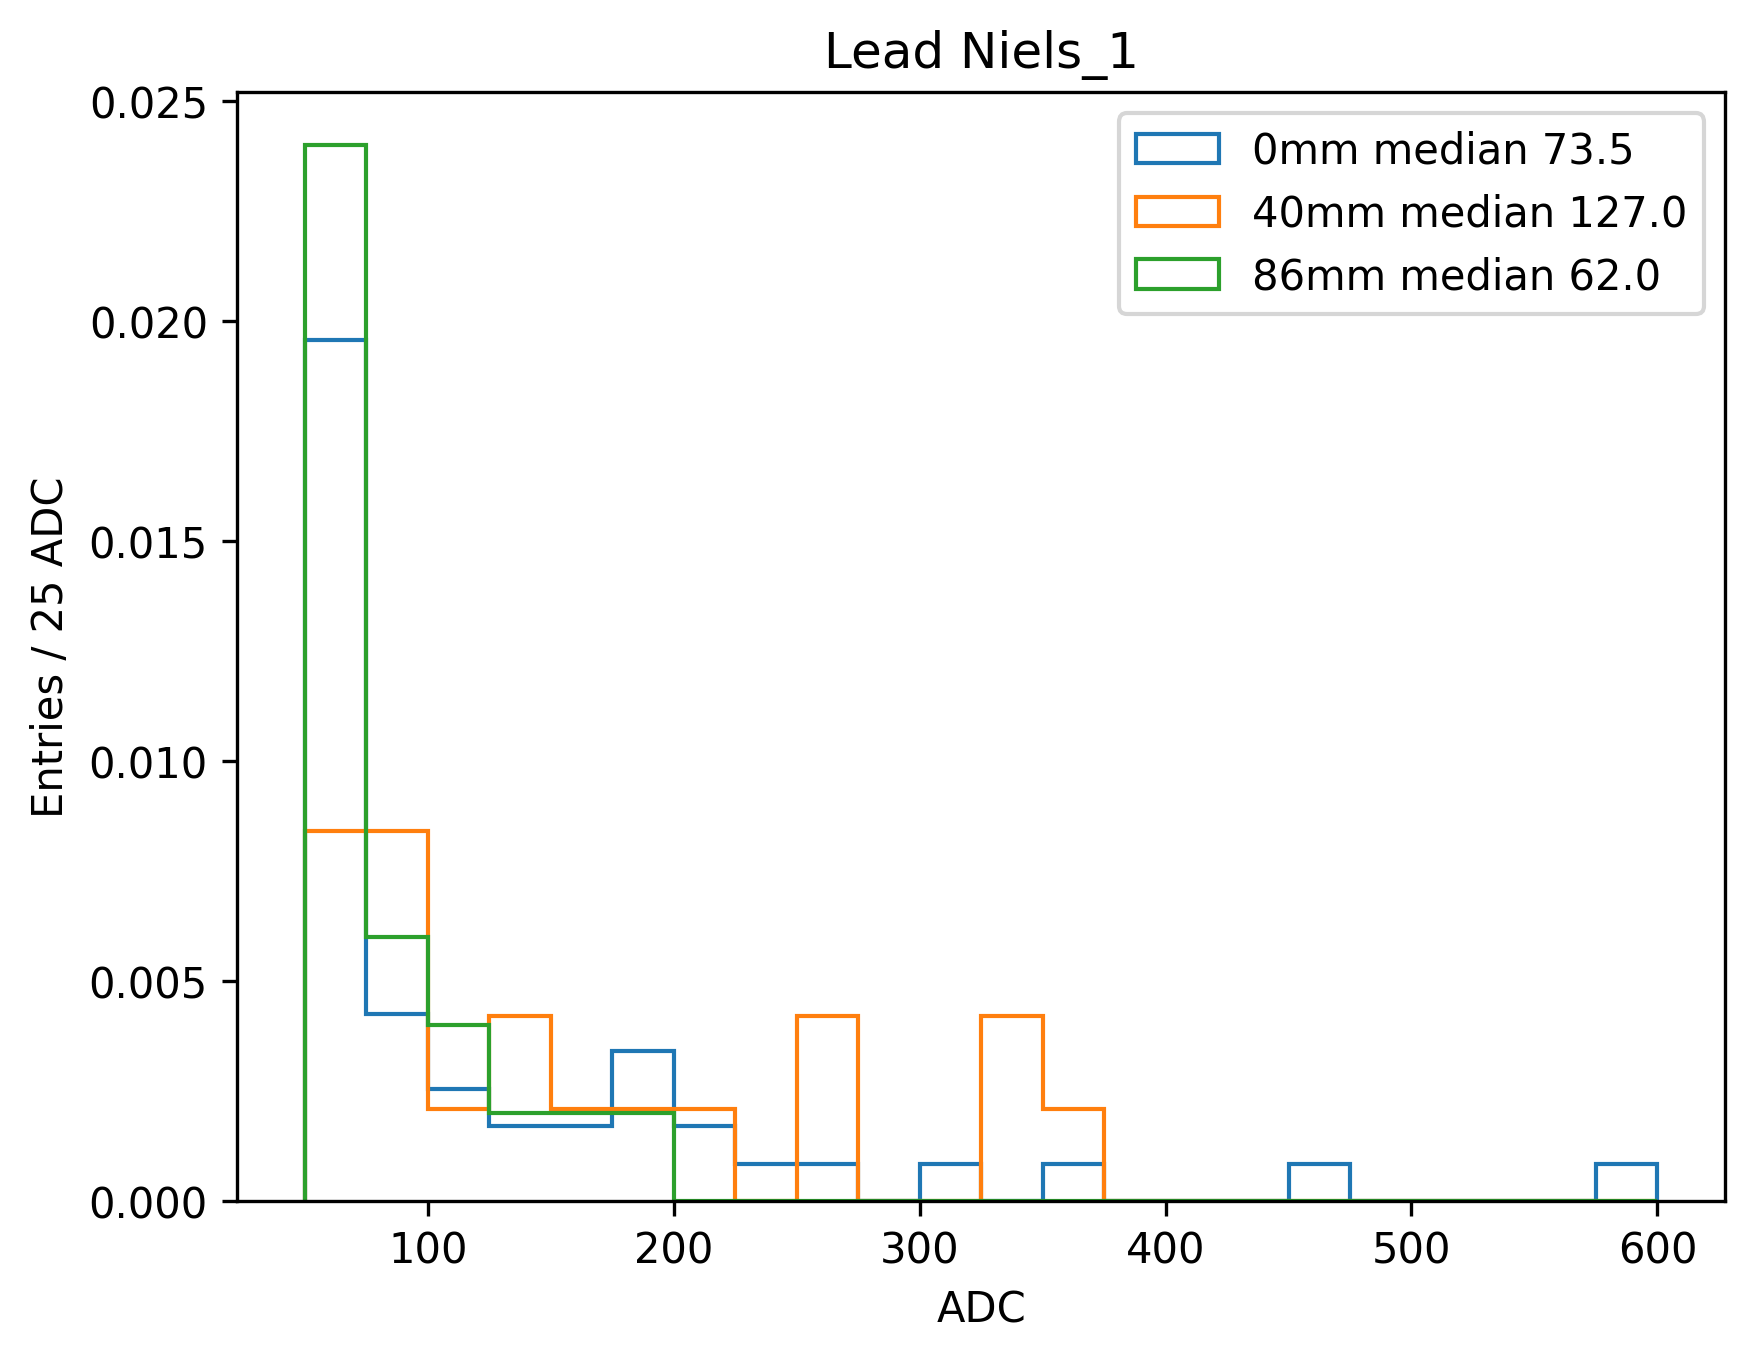
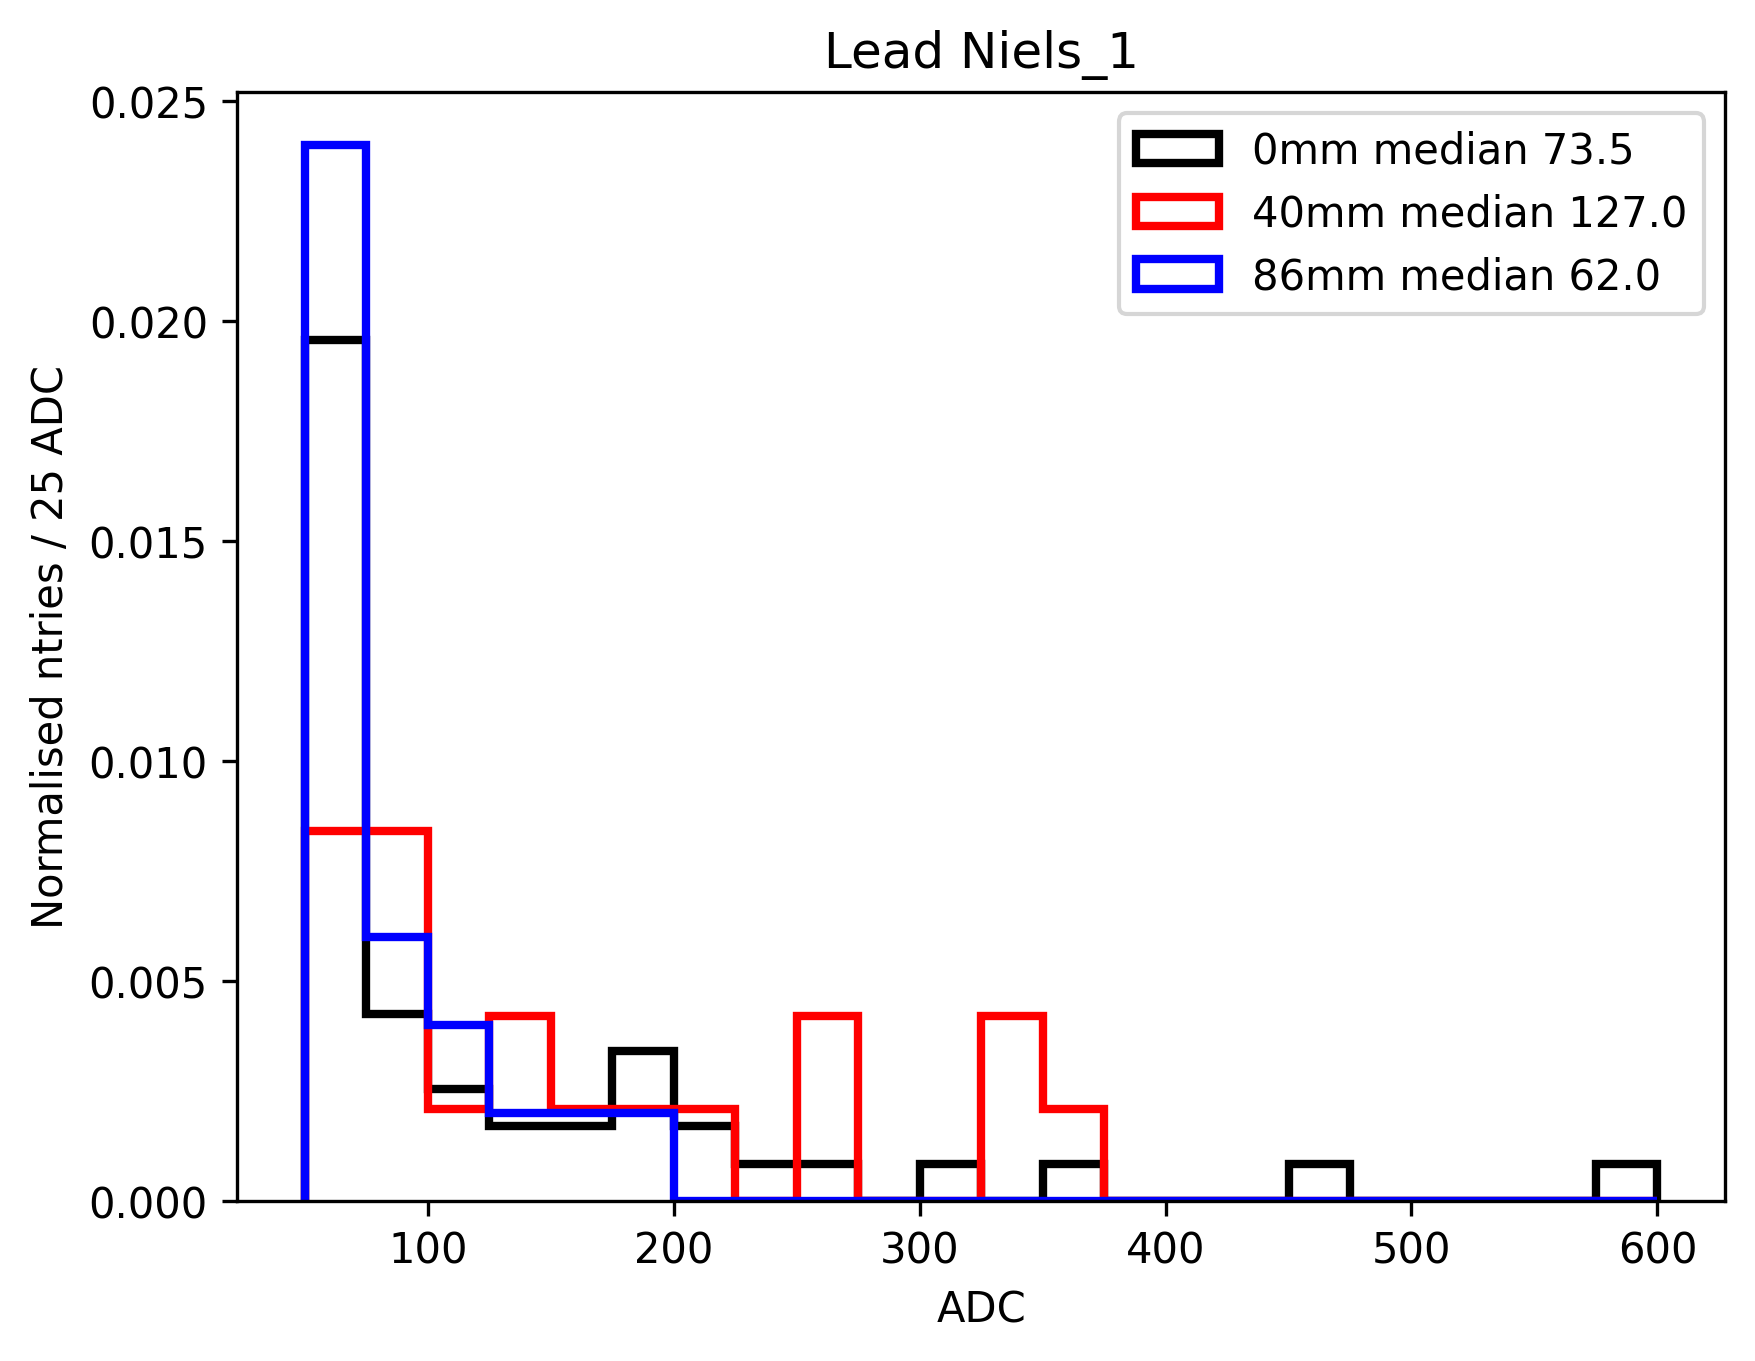
updated with better visibility and mV hists -fh

diff --git a/Readout_copy/data/lead_ADC_distributions/Readme.md b/Readout_copy/data/lead_ADC_distributions/Readme.md
@@ -1,5 +1,7 @@
+for sg:
 python3 simple_analysis_separate_files.py
-['../output/output_2021-06-24_16-30/', '../output/output_2021-06-24_15-56/', '../output/output_2021-06-24_15-11/']
+
+this reads ['../output/output_2021-06-24_16-30/', '../output/output_2021-06-24_15-56/', '../output/output_2021-06-24_15-11/']
 
 for background:
 python3 simple_analysis_separate_files.py -ignore data setup
